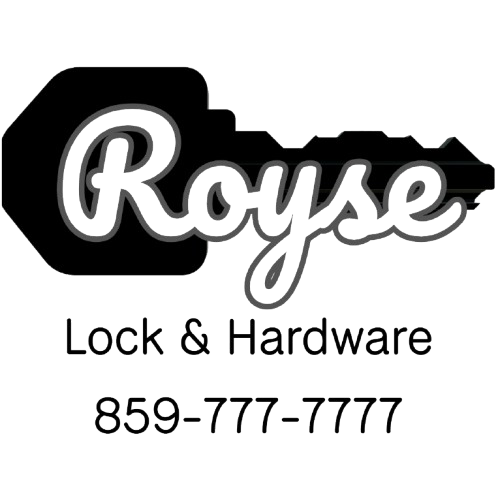
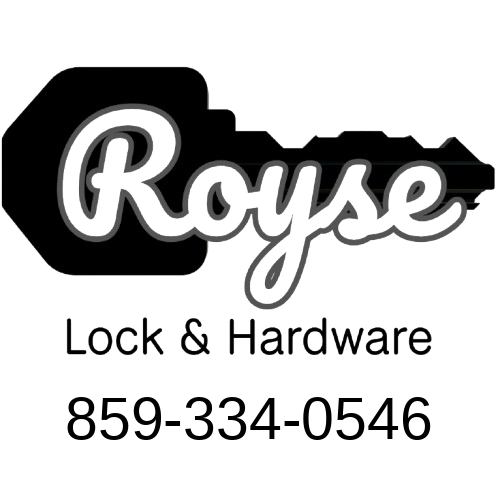
Add socials and update phone

Changed region(s): [[0.1205, 0.7784, 0.8735, 0.8982]]

diff --git a/index.html b/index.html
@@ -248,6 +248,64 @@
       border-color: var(--white);
     }
 
+    /* ─── Messaging Icons ────────────────────────────────────── */
+    .msg-icons {
+      display: flex;
+      gap: 1.1rem;
+      margin-top: 2rem;
+      animation: slideUp 0.9s ease 0.8s both;
+    }
+
+    .msg-icon {
+      display: flex;
+      align-items: center;
+      justify-content: center;
+      width: 48px;
+      height: 48px;
+      border: 1px solid rgba(255,255,255,0.25);
+      border-radius: 50%;
+      text-decoration: none;
+      color: var(--grey-lt);
+      font-size: 1.3rem;
+      line-height: 1;
+      transition: border-color 0.25s, color 0.25s, background 0.25s, transform 0.2s;
+      position: relative;
+      overflow: hidden;
+    }
+
+    .msg-icon .lc { display: inline; font-family: var(--font-body); }
+    .msg-icon .uc { display: none; font-family: var(--font-display); }
+
+    .msg-icon:hover {
+      border-color: var(--white);
+      color: var(--black);
+      background: var(--white);
+      transform: translateY(-3px);
+    }
+
+    .msg-icon:hover .lc { display: none; }
+    .msg-icon:hover .uc { display: inline; }
+
+    .msg-icon-wrap {
+      display: flex;
+      flex-direction: column;
+      align-items: center;
+      gap: 0.5rem;
+    }
+
+    .msg-icon-name {
+      font-family: var(--font-body);
+      font-size: 0.58rem;
+      letter-spacing: 0.12em;
+      text-transform: uppercase;
+      color: rgba(255,255,255,0.28);
+      transition: color 0.25s;
+    }
+
+    .msg-icon-wrap:hover .msg-icon-name {
+      color: rgba(255,255,255,0.7);
+    }
+
     /* ─── Section Wrapper ────────────────────────────────────── */
     .section {
       padding: var(--pad-section) var(--pad-x);
@@ -486,7 +544,44 @@
     <img class="hero-logo" src="royse.png" alt="Royse Lock & Hardware logo" />
     <!-- <h1 class="hero-title">Lock <span class="hero-amp">&amp; Hardware</h1> -->
     <p class="hero-slogan">Proud to be your Locksmith</p>
-    <a class="hero-cta" href="#contact">Request Service</a>
+    <a class="hero-cta" href="tel:18593340546">Request Service</a>
+    <div class="msg-icons">
+      <!-- Signal -->
+      <div class="msg-icon-wrap">
+        <a class="msg-icon" href="#" target="_blank" rel="noopener noreferrer" aria-label="Signal">
+          <span class="lc">s</span><span class="uc">S</span>
+        </a>
+        <span class="msg-icon-name">Signal</span>
+      </div>
+      <!-- Telegram -->
+      <div class="msg-icon-wrap">
+        <a class="msg-icon" href="#" target="_blank" rel="noopener noreferrer" aria-label="Telegram">
+          <span class="lc">t</span><span class="uc">T</span>
+        </a>
+        <span class="msg-icon-name">Telegram</span>
+      </div>
+      <!-- WeChat -->
+      <div class="msg-icon-wrap">
+        <a class="msg-icon" href="#" target="_blank" rel="noopener noreferrer" aria-label="WeChat">
+          <span class="lc">w</span><span class="uc">W</span>
+        </a>
+        <span class="msg-icon-name">WeChat</span>
+      </div>
+      <!-- WhatsApp -->
+      <div class="msg-icon-wrap">
+        <a class="msg-icon" href="https://wa.me/18593340546" target="_blank" rel="noopener noreferrer" aria-label="WhatsApp">
+          <span class="lc">w</span><span class="uc">W</span>
+        </a>
+        <span class="msg-icon-name">WhatsApp</span>
+      </div>
+      <!-- Instagram -->
+      <div class="msg-icon-wrap">
+        <a class="msg-icon" href="#" target="_blank" rel="noopener noreferrer" aria-label="Instagram">
+          <span class="lc">i</span><span class="uc">I</span>
+        </a>
+        <span class="msg-icon-name">Instagram</span>
+      </div>
+    </div>
   </section>
 
   <!-- ─── Services ─────────────────────────────────────────────── -->
@@ -536,9 +631,6 @@
     <div class="container">
       <div class="contact-inner fade-in">
         <h2 class="section-title">Contact</h2>
-        <p class="contact-body">
-          To book a service, please email clay@royselocks.com today!
-        </p>
         <a class="contact-email-link" href="mailto:clay@royselocks.com">
           <svg fill="none" viewBox="0 0 24 24" stroke="currentColor" stroke-width="1.8">
             <path stroke-linecap="round" stroke-linejoin="round" d="M3 8l7.89 5.26a2 2 0 002.22 0L21 8M5 19h14a2 2 0 002-2V7a2 2 0 00-2-2H5a2 2 0 00-2 2v10a2 2 0 002 2z" />
